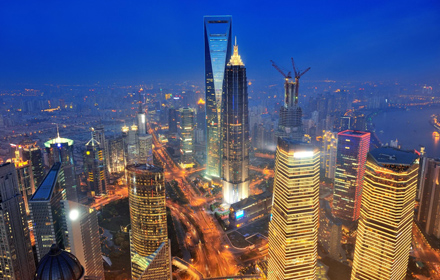
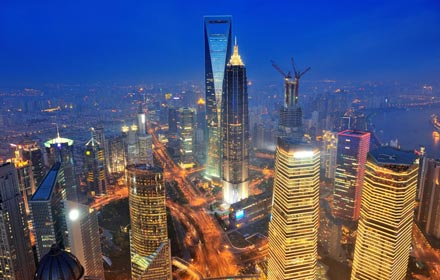
lazy loading in home page

diff --git a/DRIZZLA_FRONTEND/src/pages/Home.jsx b/DRIZZLA_FRONTEND/src/pages/Home.jsx
@@ -1,16 +1,15 @@
 import React, { useState, useEffect } from 'react'
+import { lazy, Suspense } from "react";
+
 import AnimatedVideo from '../componets/AnimatedVideo'
 import ServiceImgCards from '../componets/services/ServiceImgCards';
 import AbilitiesCard from '../componets/Home/AbilitiesCard';
 import DrizilaCapabilty from '../componets/general/DrizilaCapabilty';
 import ServiceCards from '../componets/services/ServiceCards';
-import ProductsOverview from '../componets/products/ProductsOverview';
 import { ProductsFeatureData } from '../datas/ProductsFeatureData';
 import { SolutionsData } from '../datas/Solutions';
 import { Branches } from '../datas/Branches';
-import Footer from '../componets/Footer'
 import { Link } from 'react-router-dom';
-import ContactForm from '../componets/ContactForm';
 import useContactModal from '../customHooks/useContactModal';
 import { routesMap } from '../datas/Routes';
 import { HomeVideos } from '../datas/Videos';
@@ -24,6 +23,16 @@ import useIsMobile from '../customHooks/useIsMobile';
 import useInitialGsapFade from '../customHooks/useInitialGsapFade';
 import HelmetComponent from '../componets/general/HelmetComponent';
 
+const SolutionsSection = lazy(() =>
+  import('../componets/Home/Solutions')
+)
+
+const ProductsOverview = lazy(() =>
+  import('../componets/products/ProductsOverview')
+)
+const Footer = lazy(() => import('../componets/Footer'))
+const ContactForm = lazy(() => import('../componets/ContactForm'))
+
 
 gsap.registerPlugin(ScrollTrigger);
 
@@ -33,13 +42,11 @@ const Home = () => {
   const isMobile = useIsMobile()
   const [isMobileScreen, setIsMobileScreen] = useState(true)
 
-  const [selectedSolution, setselectedSolution] = useState(SolutionsData[0])
-  const [fade, setFade] = useState(false);
-  const [isEnquiryFormVisble, setIsEnquiryFormVisble] = useState(false)
+  // const [isEnquiryFormVisble, setIsEnquiryFormVisble] = useState(false)
 
   const { isContactModal, setIsContactModal } = useContactModal()
-  const serviceImgRef = useGsapFadeIn()
-  const IntialTextMobileRef = useInitialGsapFade()
+  // const serviceImgRef = useGsapFadeIn()
+  // const IntialTextMobileRef = useInitialGsapFade()
   const groupLogoRef = useGsapFadeIn(0, { start: 'top 83%' })
 
   const ServiceWeOfferCardRef = useGsapFadeIn();
@@ -47,23 +54,12 @@ const Home = () => {
   const RobotCardTextRef = useGsapFadeIn(0, { start: 'top 70%' })
 
   const BannerRef = useGsapFadeIn()
-  const solutionListRef = useGsapFadeIn(0, { start: 'top 70%' })
-  const solutionsImageRef = useGsapFadeIn(0, { start: 'top 73%' })
+
 
   const scheduleRef = useGsapFadeIn(0, { start: 'top 73%' })
   const partnersRef = useGsapFadeIn(0, { start: 'top 73%' })
 
 
-  const handleChangeSolution = (solution) => {
-    if (solution === selectedSolution) {
-      return
-    }
-    setFade(true);
-    setTimeout(() => {
-      setselectedSolution(solution);
-      setFade(false);
-    }, 300); // 300ms fade-out before changing
-  };
 
 
   useEffect(() => {
@@ -86,7 +82,7 @@ const Home = () => {
           {/* introduction section  */}
           <div className="mt-8 md:mt-16 xl:mt-20 ">
 
-            <img ref={groupLogoRef} src="Images/logo-group.png" alt="" className=" -ml-5 mb-5 md:w-[350px] w-[310px]" />
+            <img ref={groupLogoRef} src="Images/logo-group.jpg" alt="" className=" -ml-5 mb-5 md:w-[350px] w-[310px]" />
 
             <Headline text='Your Outcome-as-a-Service (OaaS) partner, where trusted data meets intelligent applications, for measurable results.' className='text-3xl md:text-4xl xl:text-5xl xl:leading-[1.3] md:w-10/12 hidden-text' isIntiallyHidden={true} />
 
@@ -152,7 +148,7 @@ const Home = () => {
 
           {/* service image cards  */}
           <div className="flex mt-10 md:mt-20 md:space-x-4 max-md:flex-col 2xl:space-x-16 xl:space-x-12 lg:space-x-6 ">
-            <ServiceImgCards index={0} url={routesMap.DataAnalytics} image='/Images/data-analytics-presentation.png' outerContainerClass='bg-custom-green hover:bg-custom-hover-green' title='Data & Analytics' description='Transform your data into a strategic asset with our end-to-end data solutions. Leverage our expertise in data engineering & analytics to gain a clear advantage. We build robust data lakes & unified data warehouses, streamline data integration with ETL/ELT pipelines, & deliver actionable insights through advanced data analytics, empowering you to drive smarter decisions & achieve business growth.' />
+            <ServiceImgCards index={0} url={routesMap.DataAnalytics} image='/Images/data-analytics-presentation.jpg' outerContainerClass='bg-custom-green hover:bg-custom-hover-green' title='Data & Analytics' description='Transform your data into a strategic asset with our end-to-end data solutions. Leverage our expertise in data engineering & analytics to gain a clear advantage. We build robust data lakes & unified data warehouses, streamline data integration with ETL/ELT pipelines, & deliver actionable insights through advanced data analytics, empowering you to drive smarter decisions & achieve business growth.' />
             <ServiceImgCards index={1} url={routesMap.BlockchainDigitalAssets} image='/Images/block-chain.jpg' outerContainerClass='bg-custom-teal hover:bg-custom-hover-teal' title='Blockchain & Digital Assets' description='Bring your blockchain and digital assets vision to life with our expert implementation services and realise the transformative potential of the technology. We handle every step, from strategic planning and development to seamless integration and ongoing support, helping you leverage blockchain for enhanced security, transparency, and efficiency, and capitalise on the opportunities presented by digital assets for new revenue streams and innovative business models' />
           </div>
 
@@ -191,33 +187,34 @@ const Home = () => {
 
 
           {/* paroducts overview */}
+          {/* ===================== PRODUCTS OVERVIEW (LAZY) ===================== */}
           <div className="mt-20 overflow-hidden xl:mt-28 lg:mb-10 xl:mb-12">
             <Headline text='Our products' className='text-3xl md:text-4xl xl:text-5xl max-lg:pl-2 ' />
           </div>
-
-          <ProductsOverview index={0}
-            url={routesMap.CustomerService}
-            containerClass='bg-custom-brown hover:bg-custom-hover-brown' title='Credit Sentinel: Next Gen Corporate Credit Underwriting'
-            description='Reduce non-performing loans and accelerates commercial growth by delivering predictive, real-time risk scores that transform complex corporate lending decisions into instant, compliant sanctions' number='/01' />
-          <ProductsOverview index={1}
-            url={routesMap.ContractLifecycle}
-            containerClass='bg-custom-navy-blue hover:bg-custom-hover-navy-blue'
-            title='Bid Comply: Procurement Evaluation Redefined' description='Instantly auto-score vendor proposals against complex RFP criteria, reducing evaluation time by 80% and faster time-to-contract while delivering defensible, auditable compliance justifications for every procurement decision' number='/02' />
-          <ProductsOverview index={2}
-            url={routesMap.EmployeesEngagement}
-            containerClass='bg-custom-blue hover:bg-custom-hover-blue'
-            title='TaqCompare: Advanced Arabic Comparison' description='Taq Compare leverages proprietary, advanced LLM models optimised for linguistic complexity in Arabic, to instantly compare multi-version of Arabic documents, guaranteeing unparalleled accuracy and speed for Legal, HR, Procurement, Contracting teams across the GCC' number='/03' />
-          <ProductsOverview index={3}
-            url={routesMap.DigitalProducts}
-            containerClass='bg-custom-purple hover:bg-custom-hover-purple'
-            title='Digital Product Passport'
-            description='Enhance transparency and build trust with our Digital Product Passport blockchain solution. Empower consumers with verifiable product information, strengthen your brand reputation, and gain a competitive edge in the market' number='/04' />
-
+          <Suspense fallback={null}>
+            <ProductsOverview index={0}
+              url={routesMap.CustomerService}
+              containerClass='bg-custom-brown hover:bg-custom-hover-brown' title='Credit Sentinel: Next Gen Corporate Credit Underwriting'
+              description='Reduce non-performing loans and accelerates commercial growth by delivering predictive, real-time risk scores that transform complex corporate lending decisions into instant, compliant sanctions' number='/01' />
+            <ProductsOverview index={1}
+              url={routesMap.ContractLifecycle}
+              containerClass='bg-custom-navy-blue hover:bg-custom-hover-navy-blue'
+              title='Bid Comply: Procurement Evaluation Redefined' description='Instantly auto-score vendor proposals against complex RFP criteria, reducing evaluation time by 80% and faster time-to-contract while delivering defensible, auditable compliance justifications for every procurement decision' number='/02' />
+            <ProductsOverview index={2}
+              url={routesMap.EmployeesEngagement}
+              containerClass='bg-custom-blue hover:bg-custom-hover-blue'
+              title='TaqCompare: Advanced Arabic Comparison' description='Taq Compare leverages proprietary, advanced LLM models optimised for linguistic complexity in Arabic, to instantly compare multi-version of Arabic documents, guaranteeing unparalleled accuracy and speed for Legal, HR, Procurement, Contracting teams across the GCC' number='/03' />
+            <ProductsOverview index={3}
+              url={routesMap.DigitalProducts}
+              containerClass='bg-custom-purple hover:bg-custom-hover-purple'
+              title='Digital Product Passport'
+              description='Enhance transparency and build trust with our Digital Product Passport blockchain solution. Empower consumers with verifiable product information, strengthen your brand reputation, and gain a competitive edge in the market' number='/04' />
+          </Suspense>
 
           {/* robot chasing man section  */}
           <div ref={RobotCardRef} className="flex max-md:flex-col  justify-between items-center md:h-[300px] lg:h-[330px]  xl:h-[380px]  2xl:h-[480px] md:space-x-8  lg:space-x-12 text-white mt-20 md:mt-32">
             <div className="overflow-hidden md:w-1/2 lg:h-[330px] md:h-[300px]   xl:h-[380px]  2xl:h-[480px] group rounded-2xl ">
-              <img src="/Images/robot-chasing-human.png" alt="robot-chasing-human" className="object-cover w-full h-full transition-transform duration-500 ease-in-out group-hover:scale-110" />
+              <img src="/Images/robot-chasing-human.jpg" alt="robot-chasing-human" className="object-cover w-full h-full transition-transform duration-500 ease-in-out group-hover:scale-110" />
             </div>
 
             <div ref={RobotCardTextRef} className="flex-col flex-1 w-full h-full max-sm:py-10 max-sm:px-7 bg-white/5 rounded-xl max-md:mt-8 flex-center">
@@ -246,44 +243,9 @@ const Home = () => {
         </div>
 
         {/* solutions section */}
-        <div id="solutions" className="flex w-11/12 mt-12 text-white md:mt-32 max-md:flex-col-reverse 2xl:mt-20 xl:w-10/12 md:space-x-6 lg:space-x-12 xl:space-x-16 2xl:space-x-24 ">
-
-          <div className="mt-4 lg:w-1/2 max-md:pt-5 ">
-            {/* <h2 className="mb-6 text-4xl md:mb-10 max-sm:text-3xl ">Our solutions tailored to your industry</h2> */}
-            <Headline text='Our solutions tailored to your industry' className='mb-6 text-3xl md:mb-10 md:text-4xl xl:text-5xl max-lg:pl-2 ' />
-            <div ref={solutionListRef} className="">
-
-              {SolutionsData?.map((solution, index) => (
-                <React.Fragment key={index}>
-                  <div onClick={() => handleChangeSolution(solution)} className={`2xl:py-5 xl:py-4 max-sm:hidden   md:py-2 py-1.5 md:pl-8  transition-all duration-300 ease-in-out border-gray-100  ${index === 0 ? 'border-t-2 border-b-2' : 'border-b-2'} ${selectedSolution.title === solution.title ? 'font-semibold' : 'font-extralight text-stone-300'} cursor-pointer md:text-xl xl:text-[26px]  tracking-wider  border-opacity-30 `}>{solution.title}</div>
-                  {/* direct link for the  mobile screens */}
-                  <Link to={solution.url} className='block'> <div className={` sm:hidden   py-2.5   transition-all duration-300 ease-in-out border-gray-100  ${index === 0 ? 'border-t-2 border-b-2' : 'border-b-2'} font-light text-white/70 tracking-wider  border-opacity-30 `}>{solution.title}</div></Link>
-                </React.Fragment>
-              ))}
-            </div>
-          </div>
-
-
-          <div className="relative flex items-center justify-center lg:w-1/2 max-sm:hidden ">
-            {/* <h2 className="absolute mb-10 text-3xl text-center -top-20 md:hidden ">Our solutions tailored to your industry</h2> */}
-            <Headline text='Our solutions tailored to your industry' className='absolute mb-10 text-3xl text-center -top-20 md:hidden ' />
-
-            <div ref={solutionsImageRef} className="w-full h-full overflow-hidden rounded-xl ">
-              <img src={selectedSolution.image} alt="" className={`object-cover w-full h-full rounded-xl transition-opacity  duration-500 ease-in-out ${fade ? 'opacity-50' : 'opacity-100'
-                }`}
-
-              />
-            </div>
-            <div className="absolute w-full text-black bottom-4 flex-center md:bottom-10 ">
-              <div className="w-11/12 p-4 bg-white lg:p-5 xl:p-7 2xl:px-12 2xl:py-10 rounded-xl">
-                <h5 className="text-xl font-semibold md:text-2xl xl:text-3xl ">{selectedSolution?.title}</h5>
-                <p className="md:mt-4 max-md:text-sm lg:text-lg xl:text-xl">{selectedSolution?.description}</p>
-                <Link to={selectedSolution?.url}> <button className="px-3 py-1 mt-4 text-white transition-transform duration-300 rounded-full max-sm:text-sm md:px-8 md:py-3 xl:text-lg hover:bg-gradient-to-b hover:from-sky-500/80 hover:to-purple-500/80 bg-gradient-to-b from-purple-500/80 to-sky-500/80 ">EXPLORE SOLUTIONS</button></Link>
-
-              </div>
-            </div>
-          </div>
-        </div>
+        <Suspense fallback={null}>
+          <SolutionsSection />
+        </Suspense>
 
 
         {/* branches  section */}
@@ -300,8 +262,22 @@ const Home = () => {
           </div>
         </div>
 
-        <Footer />
-        <ContactForm isContactModal={isContactModal} setIsContactModal={setIsContactModal} Tab='Schedule a call now' />
+
+        {/* ===================== FOOTER (LAZY) ===================== */}
+        <Suspense fallback={null}>
+          <Footer />
+        </Suspense>
+
+        {/* ===================== CONTACT FORM (ON DEMAND ONLY) ===================== */}
+        {isContactModal && (
+          <Suspense fallback={null}>
+            <ContactForm
+              isContactModal={isContactModal}
+              setIsContactModal={setIsContactModal}
+              Tab="Schedule a call now"
+            />
+          </Suspense>
+        )}
       </div>
     </>
   )

diff --git a/DRIZZLA_FRONTEND/src/componets/Home/Solutions.jsx b/DRIZZLA_FRONTEND/src/componets/Home/Solutions.jsx
@@ -1,0 +1,69 @@
+import React,{useState} from 'react'
+import { Link } from 'react-router-dom'
+import Headline from '../general/Headline'
+import { SolutionsData } from '../../datas/Solutions'
+import useGsapFadeIn from '../../customHooks/useGsapFadeIn'
+
+function Solutions() {
+
+    const solutionListRef = useGsapFadeIn(0, { start: 'top 70%' })
+    const solutionsImageRef = useGsapFadeIn(0, { start: 'top 73%' })
+    const [selectedSolution, setselectedSolution] = useState(SolutionsData[0])
+  const [fade, setFade] = useState(false);
+
+
+    const handleChangeSolution = (solution) => {
+        if (solution === selectedSolution) {
+            return
+        }
+        setFade(true);
+        setTimeout(() => {
+            setselectedSolution(solution);
+            setFade(false);
+        }, 300); // 300ms fade-out before changing
+    };
+
+
+
+    return (
+        <div id="solutions" className="flex w-11/12 mt-12 text-white md:mt-32 max-md:flex-col-reverse 2xl:mt-20 xl:w-10/12 md:space-x-6 lg:space-x-12 xl:space-x-16 2xl:space-x-24 ">
+
+            <div className="mt-4 lg:w-1/2 max-md:pt-5 ">
+                {/* <h2 className="mb-6 text-4xl md:mb-10 max-sm:text-3xl ">Our solutions tailored to your industry</h2> */}
+                <Headline text='Our solutions tailored to your industry' className='mb-6 text-3xl md:mb-10 md:text-4xl xl:text-5xl max-lg:pl-2 ' />
+                <div ref={solutionListRef} className="">
+
+                    {SolutionsData?.map((solution, index) => (
+                        <React.Fragment key={index}>
+                            <div onClick={() => handleChangeSolution(solution)} className={`2xl:py-5 xl:py-4 max-sm:hidden   md:py-2 py-1.5 md:pl-8  transition-all duration-300 ease-in-out border-gray-100  ${index === 0 ? 'border-t-2 border-b-2' : 'border-b-2'} ${selectedSolution.title === solution.title ? 'font-semibold' : 'font-extralight text-stone-300'} cursor-pointer md:text-xl xl:text-[26px]  tracking-wider  border-opacity-30 `}>{solution.title}</div>
+                            <Link to={solution.url} className='block'> <div className={` sm:hidden   py-2.5   transition-all duration-300 ease-in-out border-gray-100  ${index === 0 ? 'border-t-2 border-b-2' : 'border-b-2'} font-light text-white/70 tracking-wider  border-opacity-30 `}>{solution.title}</div></Link>
+                        </React.Fragment>
+                    ))}
+                </div>
+            </div>
+
+
+            <div className="relative flex items-center justify-center lg:w-1/2 max-sm:hidden ">
+                {/* <h2 className="absolute mb-10 text-3xl text-center -top-20 md:hidden ">Our solutions tailored to your industry</h2> */}
+                <Headline text='Our solutions tailored to your industry' className='absolute mb-10 text-3xl text-center -top-20 md:hidden ' />
+
+                <div ref={solutionsImageRef} className="w-full h-full overflow-hidden rounded-xl ">
+                    <img src={selectedSolution.image} alt="" className={`object-cover w-full h-full rounded-xl transition-opacity  duration-500 ease-in-out ${fade ? 'opacity-50' : 'opacity-100'
+                        }`}
+
+                    />
+                </div>
+                <div className="absolute w-full text-black bottom-4 flex-center md:bottom-10 ">
+                    <div className="w-11/12 p-4 bg-white lg:p-5 xl:p-7 2xl:px-12 2xl:py-10 rounded-xl">
+                        <h5 className="text-xl font-semibold md:text-2xl xl:text-3xl ">{selectedSolution?.title}</h5>
+                        <p className="md:mt-4 max-md:text-sm lg:text-lg xl:text-xl">{selectedSolution?.description}</p>
+                        <Link to={selectedSolution?.url}> <button className="px-3 py-1 mt-4 text-white transition-transform duration-300 rounded-full max-sm:text-sm md:px-8 md:py-3 xl:text-lg hover:bg-gradient-to-b hover:from-sky-500/80 hover:to-purple-500/80 bg-gradient-to-b from-purple-500/80 to-sky-500/80 ">EXPLORE SOLUTIONS</button></Link>
+
+                    </div>
+                </div>
+            </div>
+        </div>
+    )
+}
+
+export default Solutions

diff --git a/DRIZZLA_FRONTEND/src/datas/Branches.js b/DRIZZLA_FRONTEND/src/datas/Branches.js
@@ -3,7 +3,7 @@ export const Branches = [
         title: 'New York',
         description: 'It is a long established fact that #906 a reader will be distracted.',
         address : ['98 CUTTERMILL ROAD, STE 466, ', 'GREAT NECK, NY  11021, USA'],
-        image: '/Images/branches/newyork.png',
+        image: '/Images/branches/newyork.jpg',
         alt: 'Newyork branch office'
     },
 
@@ -11,7 +11,7 @@ export const Branches = [
         title: 'Dubai',
         description: 'It is a long established fact that #906 a reader will be distracted.',
         address : ['DUBAI DIGITAL PARK,', ' SILICON OASIS, DUBAI, UAE'],
-        image: '/Images/branches/dubai.png',
+        image: '/Images/branches/dubai.jpg',
         alt: 'Dubai branch office'
     },
 
